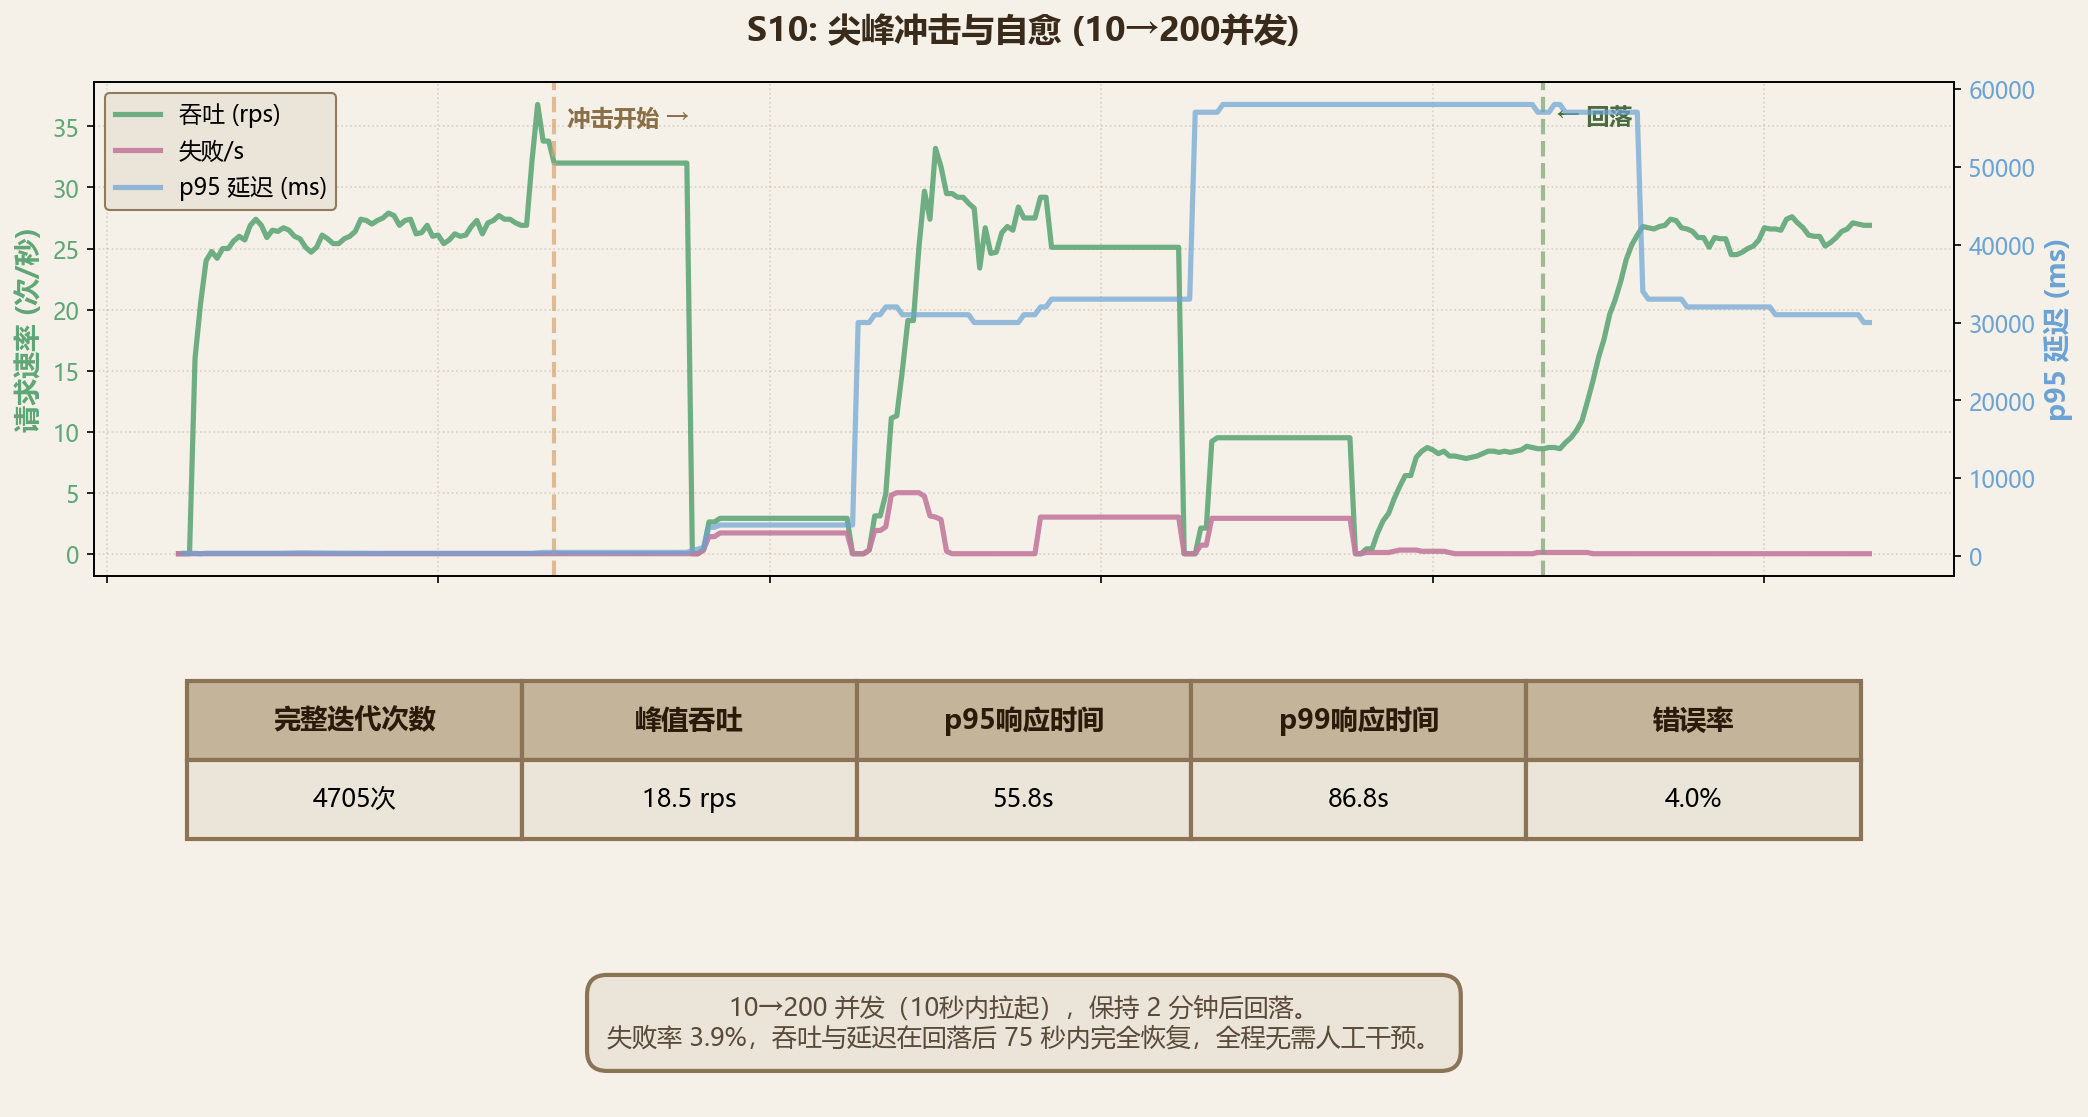
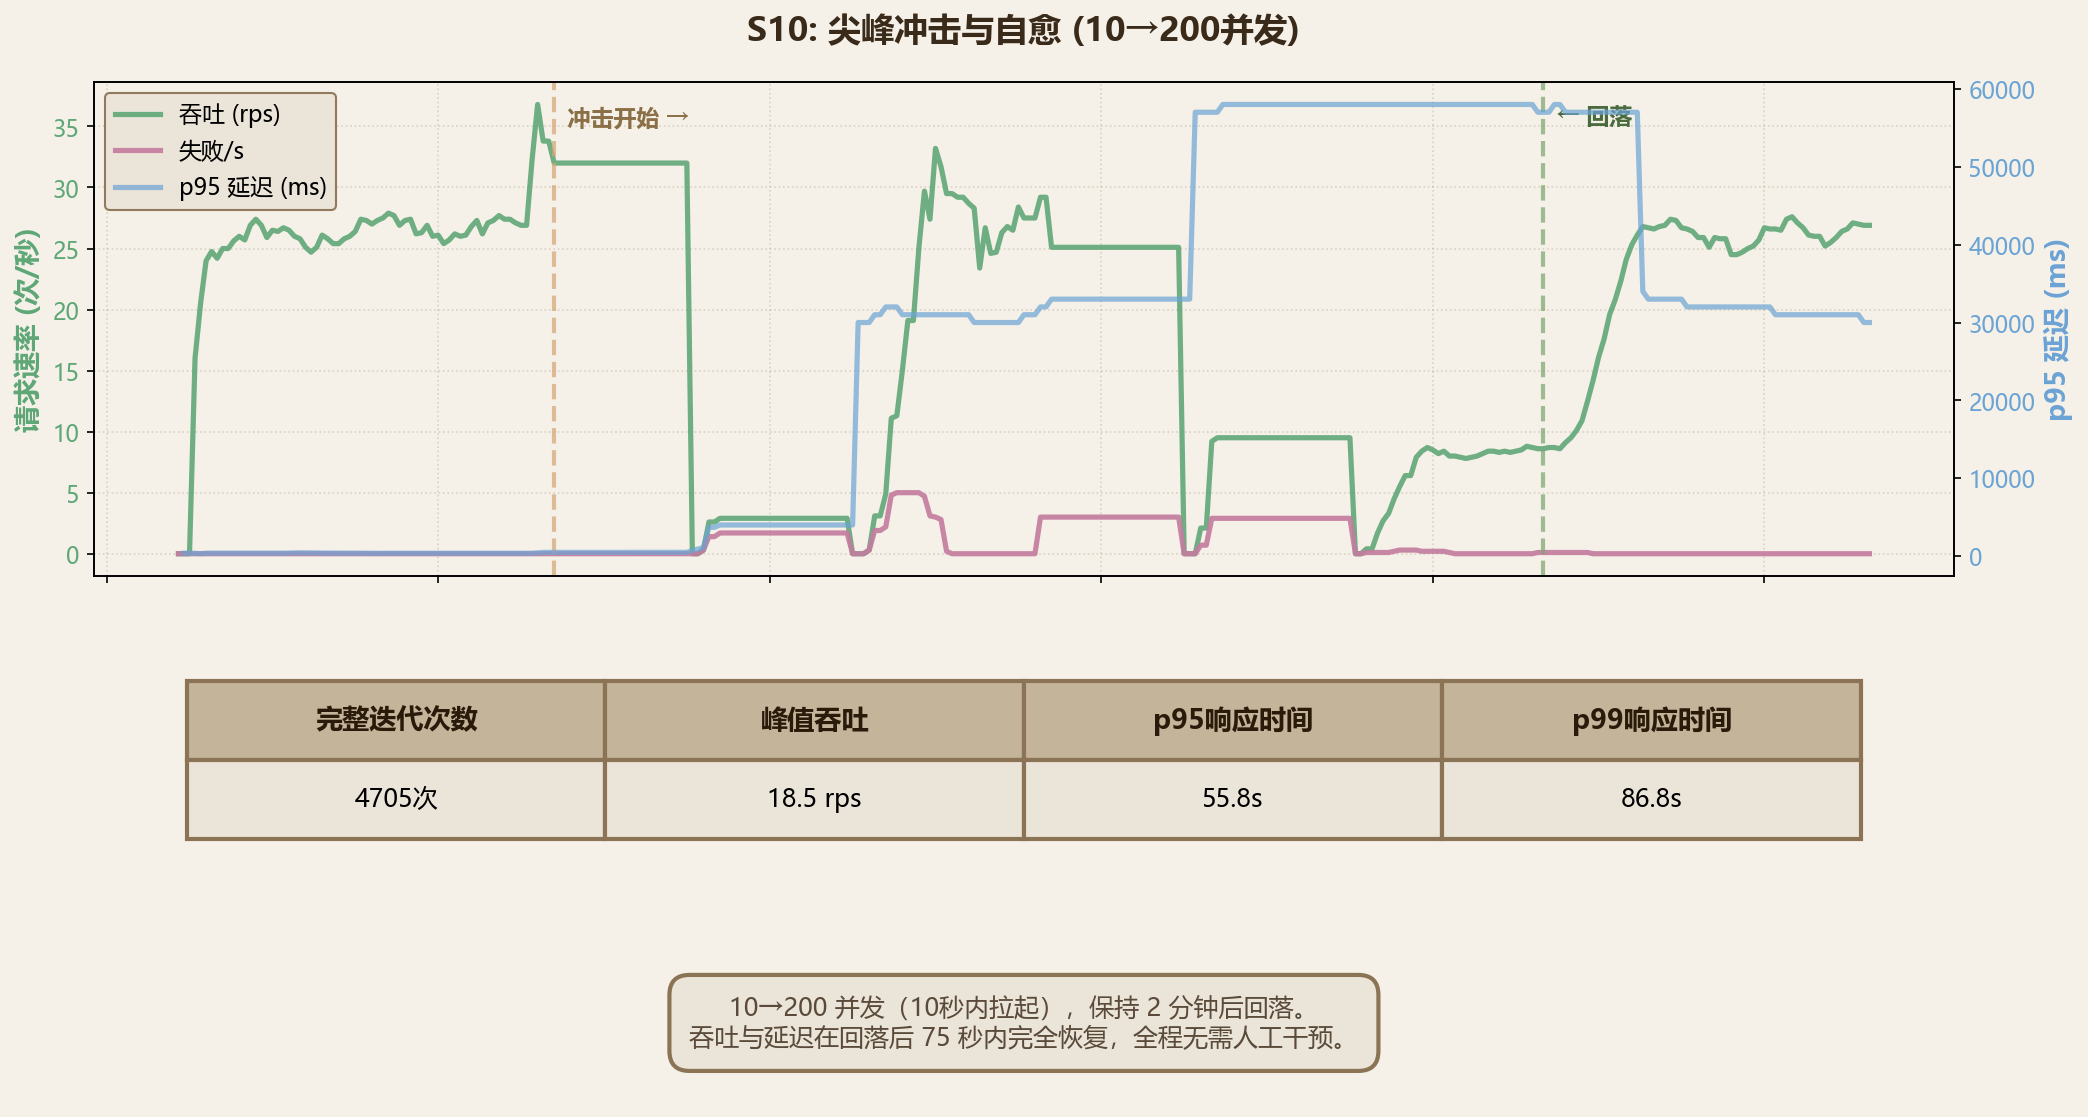
refactor(stress): remove error rate from s10 chart

diff --git a/stress/visualize_results.py b/stress/visualize_results.py
@@ -104,16 +104,14 @@ def chart_spike_recovery():
 
     spike_phase = df[df['User Count'] >= 190]
     total_requests = df['Total Request Count'].iloc[-1]
-    total_failures = df['Total Failure Count'].iloc[-1]
-    failure_rate = f"{100 * total_failures / total_requests:.1f}%" if total_requests > 0 else "0%"
     avg_throughput_spike = spike_phase['Requests/s'].mean() if len(spike_phase) > 0 else 0
     p95_spike = spike_phase['95%'].quantile(0.95) if len(spike_phase) > 0 else 0
     p99_spike = spike_phase['99%'].quantile(0.95) if len(spike_phase) > 0 else 0
 
     table_data = [
-        ['完整迭代次数', '峰值吞吐', 'p95响应时间', 'p99响应时间', '错误率'],
+        ['完整迭代次数', '峰值吞吐', 'p95响应时间', 'p99响应时间'],
         [f'{total_requests}次', f'{avg_throughput_spike:.1f} rps',
-         f'{p95_spike/1000:.1f}s', f'{p99_spike/1000:.1f}s', failure_rate]
+         f'{p95_spike/1000:.1f}s', f'{p99_spike/1000:.1f}s']
     ]
 
     table = ax_table.table(cellText=table_data, cellLoc='center', loc='center',
@@ -121,7 +119,7 @@ def chart_spike_recovery():
     table.auto_set_font_size(False)
     table.set_fontsize(12)
 
-    for i in range(5):
+    for i in range(4):
         table[(0, i)].set_facecolor('#c4b49a')
         table[(0, i)].set_text_props(weight='bold', color='#2a1a0a', fontsize=13)
         table[(1, i)].set_facecolor('#ebe5d9')
@@ -136,7 +134,7 @@ def chart_spike_recovery():
     ax_desc.axis('off')
     ax_desc.text(0.5, 0.5,
                   '10→200 并发（10秒内拉起），保持 2 分钟后回落。\n'
-                  '失败率 3.9%，吞吐与延迟在回落后 75 秒内完全恢复，全程无需人工干预。',
+                  '吞吐与延迟在回落后 75 秒内完全恢复，全程无需人工干预。',
                   ha='center', va='center', fontsize=12, color='#5a4a3a',
                   bbox=dict(boxstyle='round,pad=0.8', facecolor='#ebe5d9',
                            edgecolor='#8b7355', linewidth=2))
